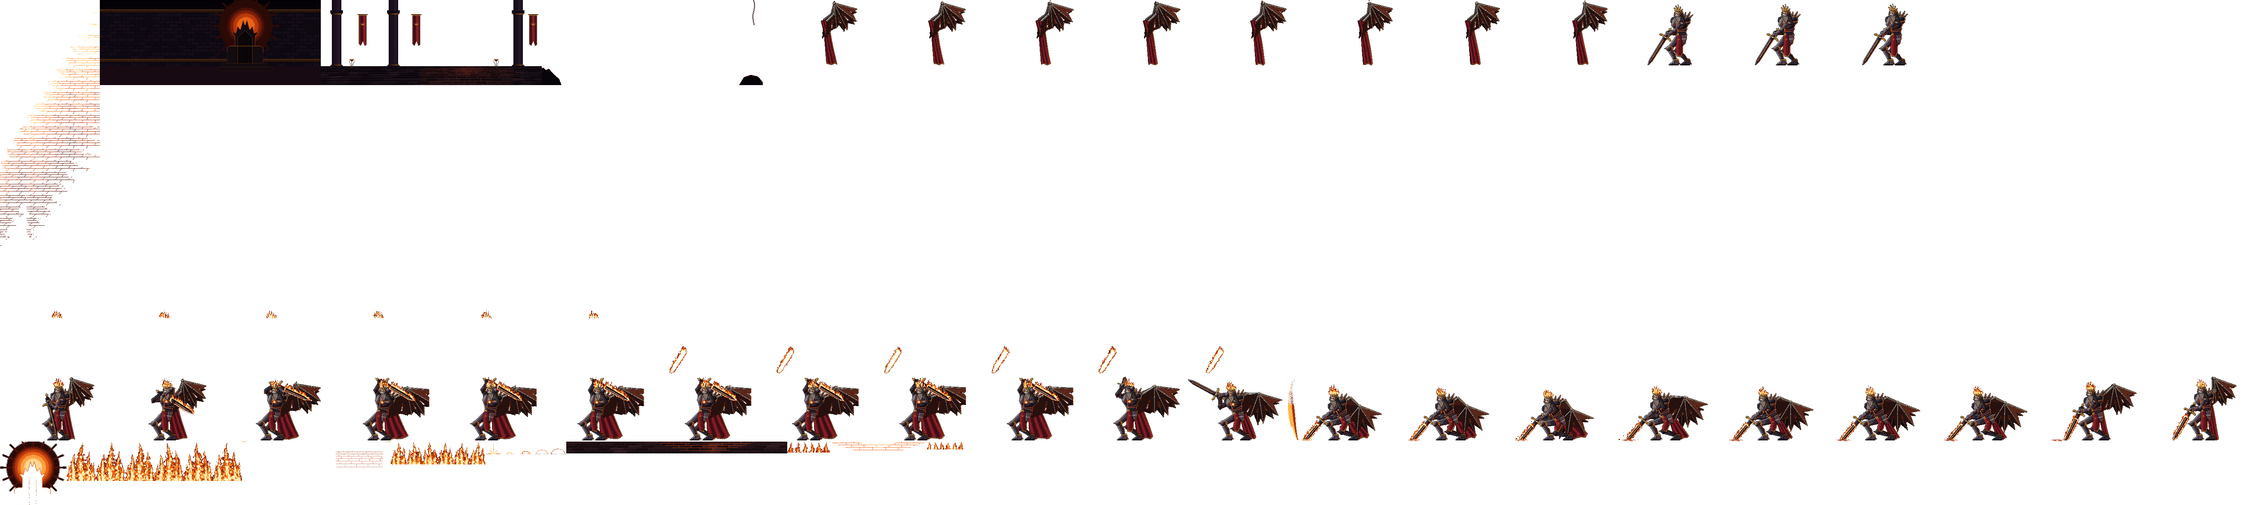
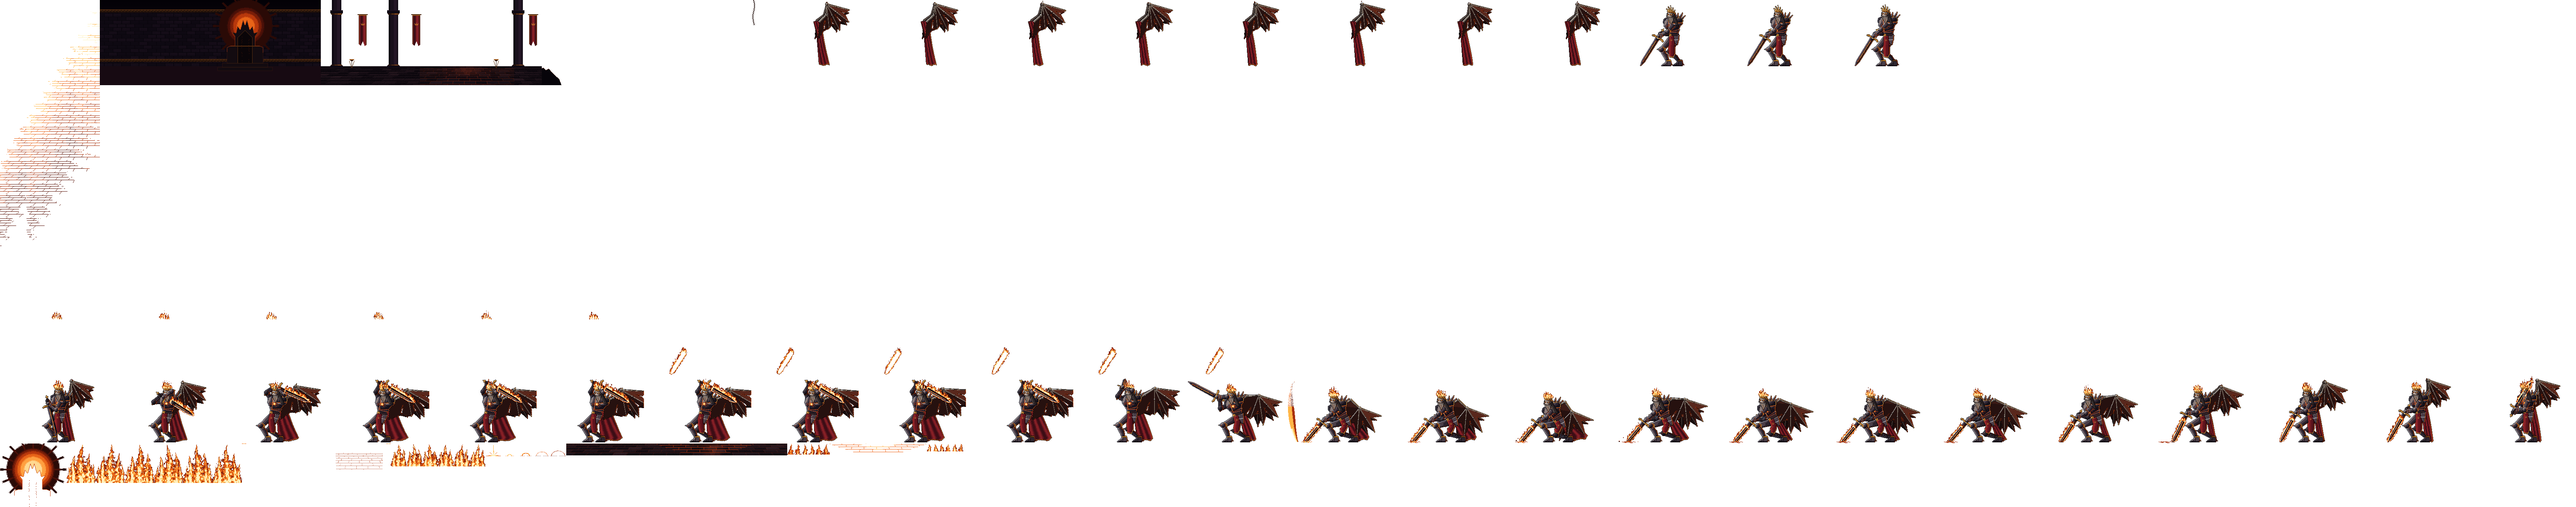
Website: Bosskino – Malgareth richtet sich über Zwischenbilder auf, Schattenriss rechts unten entfernt
Claude-Session: https://claude.ai/code/session_016qez4g2cYdi8Ag5boUatPM

diff --git a/site/bosskino.js b/site/bosskino.js
@@ -12,7 +12,7 @@
   const poster = stage?.querySelector('img');
   if (!root || !stage || !poster) return;
   // <bosskino.mjs> – von tools/bosskino.mjs geschrieben, nicht von Hand ändern
-  const META = {"szene":{"W":560,"H":216,"FY":190},"bosse":{"malgareth":{"name":"malgareth","glut":["#fff2c0","#ffb648","#c8420c"],"fokus":[300,290],"fig":{"x":201,"y":25,"w":272,"h":169},"ruhe":[{"r":"hinten","n":8,"ms":170},{"r":"koerper","seq":[0,0,0,1,1,2,2,2,1,1],"ms":210},{"r":"krone","n":6,"ms":100,"dy":[0,-1,-2],"von":"koerper"},{"r":"flamme","n":6,"ms":100}],"moment":{"f":[[0,130],[1,110],[2,110],[3,80],[4,80],[5,80],[6,80],[7,80],[8,80],[9,80],[10,60],[11,50],[12,60],[13,70],[14,90],[15,110],[16,140],[17,140],[18,140],[19,150],[20,200]],"hit":12},"stopp":80,"beben":[[0,3],[2,-2],[-1,1],[1,0]],"warn":{"x0":8,"x1":240,"y":187,"h":7,"dir":-1,"vor":760,"c":["#7a1a08","#c8420c","#ffb648"]},"ereignisse":[{"k":"bild","r":"welle","at":0,"x":0,"y":187,"w":253,"h":29,"n":27,"ms":60,"z":"boden"},{"k":"bild","r":"blitz","at":0,"x":226,"y":159,"w":41,"h":34,"n":5,"ms":60,"quer":true,"z":"vorn"},{"k":"wand","r":"wand","r2":"wand2","r3":"wand3","at":30,"x":242,"y":193,"dir":-1,"v":300,"weg":328,"w":74,"h":100,"w2":40,"h2":58,"w3":18,"h3":28,"n":6,"ms":70,"abst":8,"nach":680,"z":"vorn"},{"k":"funken","at":0,"x":246,"y":188,"n":34,"r":5,"vx":60,"vy":140,"g":300,"c":["#fff2c0","#ffb648","#e8641a","#a8300a"]},{"k":"funken","at":0,"x":246,"y":189,"n":20,"r":9,"vx":40,"vy":50,"g":80,"c":["#6a5040","#4e3a30","#3a2a24"]}],"schalen":[[70,131],[436,131]],"schale":{"w":16,"h":20,"n":6,"ms":90},"schaleNach":"mitte-glut","teilchen":"asche","dichte":2.2,"nach":"boden-glut","dauer":9.5,"start":2.4,"layers":[{"name":"fern","x":0,"y":0,"f":0.15,"r":[253,0,560,216]},{"name":"fern-glut","x":286,"y":0,"f":0.15,"glow":{"per":3.6,"lo":0.55,"steps":3},"r":[0,1121,169,161]},{"name":"mitte","x":0,"y":0,"f":0.45,"r":[813,0,560,216]},{"name":"mitte-glut","x":73,"y":149,"f":0.45,"glow":{"per":4.1,"lo":0.66,"steps":3},"r":[613,1121,377,66]},{"name":"boden","x":0,"y":186,"f":1,"r":[1435,1121,560,30]},{"name":"boden-glut","x":230,"y":187,"f":1,"glow":{"per":3.4,"lo":0.6,"steps":3},"r":[2103,1121,244,22]},{"name":"vorn","x":0,"y":0,"f":1.35,"r":[1373,0,560,216]}],"figur":{"fx":151,"fy":165,"r":{"hinten":[1933,0,2176,169],"koerper":[4109,0,816,169],"krone":[0,783,1632,169],"flamme":[1632,783,1632,169],"moment":[0,952,5712,169]}},"fxr":{"welle":[0,0,253,783],"wand":[169,1121,444,100],"wand2":[990,1121,240,58],"wand3":[1995,1121,108,28],"schale":[2347,1121,96,20],"blitz":[1230,1121,205,34]}},"faeulnis":{"glut":["#dcdca0","#a8b05a","#3e4a1e"],"fokus":[300,332],"teilchen":"sporen","dichte":3.4,"dauer":9.5,"start":2.2,"name":"faeulnis","fig":{"x":229,"y":23,"w":340,"h":168},"ruhe":[{"n":6,"ms":150,"r":"arm-h"},{"n":8,"ms":170,"r":"koerper"},{"n":6,"ms":150,"r":"arm-v"}],"moment":{"f":[[0,110],[1,100],[2,120],[3,120],[4,120],[5,120],[6,60],[7,60],[8,100],[9,110],[10,130],[11,110],[12,120],[13,140],[14,140],[15,140],[16,200],[17,160]],"hit":8},"nach":"boden-glut","ereignisse":[{"k":"bild","r":"welle","at":0,"x":0,"y":188,"w":257,"h":28,"n":36,"ms":60,"z":"boden"},{"k":"bild","r":"blitz","at":0,"x":238,"y":172,"w":25,"h":22,"n":4,"ms":60,"quer":true,"z":"vorn"},{"k":"funken","at":0,"x":250,"y":188,"n":22,"r":6,"vx":40,"vy":90,"g":200,"c":["#dcdca0","#a8b05a","#6e7a34","#3e4a1e"]},{"k":"funken","at":0,"x":250,"y":189,"n":16,"r":8,"vx":30,"vy":40,"g":80,"c":["#584c36","#3e3626","#28231a"]},{"k":"bild","r":"dorn","at":100,"x":204,"y":114,"w":40,"h":78,"n":9,"ms":80,"quer":true,"z":"vorn"},{"k":"funken","at":180,"x":224,"y":188,"n":8,"r":5,"vx":26,"vy":60,"g":220,"c":["#584c36","#3e3626","#464e2a"]},{"k":"bild","r":"dorn2","at":215,"x":179,"y":139,"w":30,"h":54,"n":9,"ms":80,"quer":true,"z":"vorn"},{"k":"funken","at":295,"x":194,"y":188,"n":8,"r":5,"vx":26,"vy":60,"g":220,"c":["#584c36","#3e3626","#464e2a"]},{"k":"bild","r":"wolke","at":355,"x":154,"y":128,"w":80,"h":64,"n":11,"ms":100,"quer":true,"z":"vorn"},{"k":"funken","at":275,"x":194,"y":184,"n":10,"r":6,"vx":18,"vy":30,"g":0,"c":["#dcdca0","#a8b05a","#6e7a34","#3e4a1e"]},{"k":"bild","r":"dorn","at":330,"x":144,"y":116,"w":40,"h":78,"n":9,"ms":80,"quer":true,"z":"vorn"},{"k":"funken","at":410,"x":164,"y":188,"n":8,"r":5,"vx":26,"vy":60,"g":220,"c":["#584c36","#3e3626","#464e2a"]},{"k":"bild","r":"dorn2","at":446,"x":119,"y":138,"w":30,"h":54,"n":9,"ms":80,"quer":true,"z":"vorn"},{"k":"funken","at":526,"x":134,"y":188,"n":8,"r":5,"vx":26,"vy":60,"g":220,"c":["#584c36","#3e3626","#464e2a"]},{"k":"bild","r":"wolke","at":586,"x":94,"y":128,"w":80,"h":64,"n":11,"ms":100,"quer":true,"z":"vorn"},{"k":"funken","at":506,"x":134,"y":184,"n":10,"r":6,"vx":18,"vy":30,"g":0,"c":["#dcdca0","#a8b05a","#6e7a34","#3e4a1e"]},{"k":"bild","r":"dorn","at":561,"x":84,"y":115,"w":40,"h":78,"n":9,"ms":80,"quer":true,"z":"vorn"},{"k":"funken","at":641,"x":104,"y":188,"n":8,"r":5,"vx":26,"vy":60,"g":220,"c":["#584c36","#3e3626","#464e2a"]},{"k":"bild","r":"dorn2","at":676,"x":59,"y":140,"w":30,"h":54,"n":9,"ms":80,"quer":true,"z":"vorn"},{"k":"funken","at":756,"x":74,"y":188,"n":8,"r":5,"vx":26,"vy":60,"g":220,"c":["#584c36","#3e3626","#464e2a"]},{"k":"bild","r":"wolke","at":816,"x":34,"y":128,"w":80,"h":64,"n":11,"ms":100,"quer":true,"z":"vorn"},{"k":"funken","at":736,"x":74,"y":184,"n":10,"r":6,"vx":18,"vy":30,"g":0,"c":["#dcdca0","#a8b05a","#6e7a34","#3e4a1e"]},{"k":"bild","r":"dorn","at":792,"x":24,"y":114,"w":40,"h":78,"n":9,"ms":80,"quer":true,"z":"vorn"},{"k":"funken","at":872,"x":44,"y":188,"n":8,"r":5,"vx":26,"vy":60,"g":220,"c":["#584c36","#3e3626","#464e2a"]}],"stopp":70,"beben":[[0,3],[2,-2],[-2,1],[1,-1],[-1,1],[1,0],[0,1]],"warn":{"x0":12,"x1":246,"y":187,"h":7,"dir":-1,"vor":650,"c":["#1e2410","#3e4a1e","#a8b05a"]},"layers":[{"name":"fern","x":0,"y":0,"f":0.15,"r":[257,0,560,216]},{"name":"fern-glut","x":0,"y":1,"f":0.15,"glow":{"per":3.4,"lo":0.45,"steps":3},"r":[0,1344,559,131]},{"name":"mitte","x":0,"y":97,"f":0.45,"r":[559,1344,560,119]},{"name":"mitte-glut","x":6,"y":134,"f":0.45,"glow":{"per":2.9,"lo":0.4,"steps":3},"r":[3950,1344,502,27]},{"name":"boden","x":0,"y":186,"f":1,"r":[3390,1344,560,30]},{"name":"boden-glut","x":46,"y":194,"f":1,"glow":{"per":2.6,"lo":0.4,"steps":3},"r":[4452,1344,435,17]},{"name":"vorn","x":0,"y":174,"f":1.35,"r":[2629,1344,556,42]}],"figur":{"r":{"arm-h":[817,0,2040,168],"koerper":[2857,0,2720,168],"arm-v":[0,1008,2040,168],"moment":[0,1176,6120,168]}},"fxr":{"blitz":[3185,1344,205,34],"dorn":[1119,1344,360,78],"dorn2":[2359,1344,270,54],"wolke":[1479,1344,880,64],"welle":[0,0,257,1008]}},"skalvyr":{"glut":["#ffffff","#9aeefc","#34b8e4"],"fokus":[292,298],"teilchen":"schnee","dichte":5,"dauer":9.5,"start":2.2,"beben":[[0,4],[3,-3],[-3,2],[2,-2],[-2,1],[1,-1],[0,1],[1,0]],"stopp":80,"name":"skalvyr","fig":{"x":167,"y":20,"w":390,"h":171},"ruhe":[{"n":12,"ms":150,"r":"koerper"}],"moment":{"f":[[0,150],[1,170],[2,100],[3,110],[4,110],[5,110],[6,110],[7,110],[8,150],[9,170],[10,190],[11,170]],"hit":8},"nach":"boden-glut","ereignisse":[{"k":"bild","r":"schatten","at":-770,"x":62,"y":176,"w":260,"h":26,"n":20,"ms":40,"quer":true,"z":"boden"},{"k":"bild","r":"reste","at":270,"x":62,"y":176,"w":260,"h":26,"n":11,"ms":150,"quer":true,"z":"boden"},{"k":"bild","r":"welle","at":0,"x":0,"y":187,"w":523,"h":29,"n":41,"ms":60,"z":"boden"},{"k":"zapfen","r":"zapfen-s","r2":"steckt-s","at":-20,"x":174,"y":187,"vor":640,"w":18,"h":62,"n":5,"ms":16,"sw":54,"sh":68,"mr":1,"z":"vorn"},{"k":"zapfen","r":"zapfen-m","r2":"steckt-m","at":-70,"x":226,"y":188,"vor":640,"w":24,"h":82,"n":5,"ms":26,"sw":60,"sh":88,"mr":1,"z":"vorn"},{"k":"zapfen","r":"zapfen-m","r2":"steckt-m","at":-110,"x":160,"y":190,"vor":640,"w":24,"h":82,"n":5,"ms":34,"sw":60,"sh":88,"mr":1,"z":"vorn"},{"k":"zapfen","r":"zapfen-s","r2":"steckt-s","at":-130,"x":252,"y":194,"vor":640,"w":18,"h":62,"n":5,"ms":38,"sw":54,"sh":68,"mr":1,"z":"vorn"},{"k":"zapfen","r":"zapfen-l","r2":"steckt-l","at":0,"x":190,"y":195,"vor":640,"w":30,"h":104,"n":5,"ms":12,"sw":66,"sh":110,"mr":1,"z":"vorn"},{"k":"zapfen","r":"zapfen-s","r2":"steckt-s","at":-40,"x":138,"y":196,"vor":640,"w":18,"h":62,"n":5,"ms":20,"sw":54,"sh":68,"mr":1,"z":"vorn"},{"k":"zapfen","r":"zapfen-s","r2":"steckt-s","at":-90,"x":208,"y":197,"vor":640,"w":18,"h":62,"n":5,"ms":30,"sw":54,"sh":68,"mr":1,"z":"vorn"},{"k":"bild","r":"kranz","at":0,"x":62,"y":52,"w":260,"h":150,"n":12,"ms":60,"quer":true,"z":"vorn"},{"k":"funken","at":-520,"x":200,"y":10,"n":10,"r":16,"vx":6,"vy":-30,"g":140,"c":["#ffffff","#9aeefc","#34b8e4","#1670a0"]},{"k":"funken","at":-460,"x":150,"y":10,"n":10,"r":16,"vx":6,"vy":-30,"g":140,"c":["#ffffff","#9aeefc","#34b8e4","#1670a0"]},{"k":"funken","at":-400,"x":250,"y":10,"n":10,"r":16,"vx":6,"vy":-30,"g":140,"c":["#ffffff","#9aeefc","#34b8e4","#1670a0"]},{"k":"funken","at":-340,"x":120,"y":10,"n":10,"r":16,"vx":6,"vy":-30,"g":140,"c":["#ffffff","#9aeefc","#34b8e4","#1670a0"]},{"k":"funken","at":-280,"x":228,"y":10,"n":10,"r":16,"vx":6,"vy":-30,"g":140,"c":["#ffffff","#9aeefc","#34b8e4","#1670a0"]},{"k":"funken","at":-220,"x":176,"y":10,"n":10,"r":16,"vx":6,"vy":-30,"g":140,"c":["#ffffff","#9aeefc","#34b8e4","#1670a0"]}],"warn":null,"layers":[{"name":"fern","x":0,"y":0,"f":0.15,"r":[523,0,560,216]},{"name":"fern-glut","x":264,"y":7,"f":0.15,"glow":{"per":3.8,"lo":0.55,"steps":3},"r":[2203,0,110,171]},{"name":"mitte","x":0,"y":0,"f":0.45,"r":[1083,0,560,216]},{"name":"mitte-glut","x":6,"y":0,"f":0.45,"glow":{"per":3.1,"lo":0.5,"steps":3},"r":[2313,0,525,171]},{"name":"boden","x":0,"y":186,"f":1,"r":[4092,1531,560,30]},{"name":"boden-glut","x":341,"y":192,"f":1,"glow":{"per":3.3,"lo":0.4,"steps":3},"r":[2860,1707,102,10]},{"name":"vorn","x":0,"y":0,"f":1.35,"r":[1643,0,560,216]}],"figur":{"r":{"koerper":[0,1189,4680,171],"moment":[0,1360,4680,171]}},"fxr":{"zapfen-l":[3450,1531,30,104],"steckt-l":[3120,1531,330,110],"zapfen-m":[3780,1531,24,82],"steckt-m":[3480,1531,300,88],"zapfen-s":[4074,1531,18,62],"steckt-s":[3804,1531,270,68],"kranz":[0,1531,3120,150],"schatten":[0,1681,5200,26],"reste":[0,1707,2860,26],"welle":[0,0,523,1189]}}}};
+  const META = {"szene":{"W":560,"H":216,"FY":190},"bosse":{"malgareth":{"name":"malgareth","glut":["#fff2c0","#ffb648","#c8420c"],"fokus":[300,290],"fig":{"x":201,"y":23,"w":272,"h":171},"ruhe":[{"r":"hinten","n":8,"ms":170},{"r":"koerper","seq":[0,0,0,1,1,2,2,2,1,1],"ms":210},{"r":"krone","n":6,"ms":100,"dy":[0,-1,-2],"von":"koerper"},{"r":"flamme","n":6,"ms":100}],"moment":{"f":[[0,130],[1,110],[2,110],[3,80],[4,80],[5,80],[6,80],[7,80],[8,80],[9,80],[10,60],[11,50],[12,60],[13,70],[14,90],[15,110],[16,140],[17,140],[18,140],[19,110],[20,130],[21,110],[22,130],[23,120]],"hit":12},"stopp":80,"beben":[[0,3],[2,-2],[-1,1],[1,0]],"warn":{"x0":8,"x1":240,"y":187,"h":7,"dir":-1,"vor":760,"c":["#7a1a08","#c8420c","#ffb648"]},"ereignisse":[{"k":"bild","r":"welle","at":0,"x":0,"y":187,"w":253,"h":29,"n":27,"ms":60,"z":"boden"},{"k":"bild","r":"blitz","at":0,"x":226,"y":159,"w":41,"h":34,"n":5,"ms":60,"quer":true,"z":"vorn"},{"k":"wand","r":"wand","r2":"wand2","r3":"wand3","at":30,"x":242,"y":193,"dir":-1,"v":300,"weg":328,"w":74,"h":100,"w2":40,"h2":58,"w3":18,"h3":28,"n":6,"ms":70,"abst":8,"nach":680,"z":"vorn"},{"k":"funken","at":0,"x":246,"y":188,"n":34,"r":5,"vx":60,"vy":140,"g":300,"c":["#fff2c0","#ffb648","#e8641a","#a8300a"]},{"k":"funken","at":0,"x":246,"y":189,"n":20,"r":9,"vx":40,"vy":50,"g":80,"c":["#6a5040","#4e3a30","#3a2a24"]}],"schalen":[[70,131],[436,131]],"schale":{"w":16,"h":20,"n":6,"ms":90},"schaleNach":"mitte-glut","teilchen":"asche","dichte":2.2,"nach":"boden-glut","dauer":9.5,"start":2.4,"layers":[{"name":"fern","x":0,"y":0,"f":0.15,"r":[253,0,560,216]},{"name":"fern-glut","x":286,"y":0,"f":0.15,"glow":{"per":3.6,"lo":0.55,"steps":3},"r":[0,1125,169,161]},{"name":"mitte","x":0,"y":0,"f":0.45,"r":[813,0,560,216]},{"name":"mitte-glut","x":73,"y":149,"f":0.45,"glow":{"per":4.1,"lo":0.66,"steps":3},"r":[613,1125,377,66]},{"name":"boden","x":0,"y":186,"f":1,"r":[1435,1125,560,30]},{"name":"boden-glut","x":230,"y":187,"f":1,"glow":{"per":3.4,"lo":0.6,"steps":3},"r":[2103,1125,244,22]},{"name":"vorn","x":0,"y":0,"f":1.35,"r":[1373,0,541,216]}],"figur":{"fx":151,"fy":167,"r":{"hinten":[1914,0,2176,171],"koerper":[4090,0,816,171],"krone":[0,783,1632,171],"flamme":[1632,783,1632,171],"moment":[0,954,6528,171]}},"fxr":{"welle":[0,0,253,783],"wand":[169,1125,444,100],"wand2":[990,1125,240,58],"wand3":[1995,1125,108,28],"schale":[2347,1125,96,20],"blitz":[1230,1125,205,34]}},"faeulnis":{"glut":["#dcdca0","#a8b05a","#3e4a1e"],"fokus":[300,332],"teilchen":"sporen","dichte":3.4,"dauer":9.5,"start":2.2,"name":"faeulnis","fig":{"x":229,"y":23,"w":340,"h":168},"ruhe":[{"n":6,"ms":150,"r":"arm-h"},{"n":8,"ms":170,"r":"koerper"},{"n":6,"ms":150,"r":"arm-v"}],"moment":{"f":[[0,110],[1,100],[2,120],[3,120],[4,120],[5,120],[6,60],[7,60],[8,100],[9,110],[10,130],[11,110],[12,120],[13,140],[14,140],[15,140],[16,200],[17,160]],"hit":8},"nach":"boden-glut","ereignisse":[{"k":"bild","r":"welle","at":0,"x":0,"y":188,"w":257,"h":28,"n":36,"ms":60,"z":"boden"},{"k":"bild","r":"blitz","at":0,"x":238,"y":172,"w":25,"h":22,"n":4,"ms":60,"quer":true,"z":"vorn"},{"k":"funken","at":0,"x":250,"y":188,"n":22,"r":6,"vx":40,"vy":90,"g":200,"c":["#dcdca0","#a8b05a","#6e7a34","#3e4a1e"]},{"k":"funken","at":0,"x":250,"y":189,"n":16,"r":8,"vx":30,"vy":40,"g":80,"c":["#584c36","#3e3626","#28231a"]},{"k":"bild","r":"dorn","at":100,"x":204,"y":114,"w":40,"h":78,"n":9,"ms":80,"quer":true,"z":"vorn"},{"k":"funken","at":180,"x":224,"y":188,"n":8,"r":5,"vx":26,"vy":60,"g":220,"c":["#584c36","#3e3626","#464e2a"]},{"k":"bild","r":"dorn2","at":215,"x":179,"y":139,"w":30,"h":54,"n":9,"ms":80,"quer":true,"z":"vorn"},{"k":"funken","at":295,"x":194,"y":188,"n":8,"r":5,"vx":26,"vy":60,"g":220,"c":["#584c36","#3e3626","#464e2a"]},{"k":"bild","r":"wolke","at":355,"x":154,"y":128,"w":80,"h":64,"n":11,"ms":100,"quer":true,"z":"vorn"},{"k":"funken","at":275,"x":194,"y":184,"n":10,"r":6,"vx":18,"vy":30,"g":0,"c":["#dcdca0","#a8b05a","#6e7a34","#3e4a1e"]},{"k":"bild","r":"dorn","at":330,"x":144,"y":116,"w":40,"h":78,"n":9,"ms":80,"quer":true,"z":"vorn"},{"k":"funken","at":410,"x":164,"y":188,"n":8,"r":5,"vx":26,"vy":60,"g":220,"c":["#584c36","#3e3626","#464e2a"]},{"k":"bild","r":"dorn2","at":446,"x":119,"y":138,"w":30,"h":54,"n":9,"ms":80,"quer":true,"z":"vorn"},{"k":"funken","at":526,"x":134,"y":188,"n":8,"r":5,"vx":26,"vy":60,"g":220,"c":["#584c36","#3e3626","#464e2a"]},{"k":"bild","r":"wolke","at":586,"x":94,"y":128,"w":80,"h":64,"n":11,"ms":100,"quer":true,"z":"vorn"},{"k":"funken","at":506,"x":134,"y":184,"n":10,"r":6,"vx":18,"vy":30,"g":0,"c":["#dcdca0","#a8b05a","#6e7a34","#3e4a1e"]},{"k":"bild","r":"dorn","at":561,"x":84,"y":115,"w":40,"h":78,"n":9,"ms":80,"quer":true,"z":"vorn"},{"k":"funken","at":641,"x":104,"y":188,"n":8,"r":5,"vx":26,"vy":60,"g":220,"c":["#584c36","#3e3626","#464e2a"]},{"k":"bild","r":"dorn2","at":676,"x":59,"y":140,"w":30,"h":54,"n":9,"ms":80,"quer":true,"z":"vorn"},{"k":"funken","at":756,"x":74,"y":188,"n":8,"r":5,"vx":26,"vy":60,"g":220,"c":["#584c36","#3e3626","#464e2a"]},{"k":"bild","r":"wolke","at":816,"x":34,"y":128,"w":80,"h":64,"n":11,"ms":100,"quer":true,"z":"vorn"},{"k":"funken","at":736,"x":74,"y":184,"n":10,"r":6,"vx":18,"vy":30,"g":0,"c":["#dcdca0","#a8b05a","#6e7a34","#3e4a1e"]},{"k":"bild","r":"dorn","at":792,"x":24,"y":114,"w":40,"h":78,"n":9,"ms":80,"quer":true,"z":"vorn"},{"k":"funken","at":872,"x":44,"y":188,"n":8,"r":5,"vx":26,"vy":60,"g":220,"c":["#584c36","#3e3626","#464e2a"]}],"stopp":70,"beben":[[0,3],[2,-2],[-2,1],[1,-1],[-1,1],[1,0],[0,1]],"warn":{"x0":12,"x1":246,"y":187,"h":7,"dir":-1,"vor":650,"c":["#1e2410","#3e4a1e","#a8b05a"]},"layers":[{"name":"fern","x":0,"y":0,"f":0.15,"r":[257,0,560,216]},{"name":"fern-glut","x":0,"y":1,"f":0.15,"glow":{"per":3.4,"lo":0.45,"steps":3},"r":[0,1344,559,131]},{"name":"mitte","x":0,"y":97,"f":0.45,"r":[559,1344,560,119]},{"name":"mitte-glut","x":6,"y":134,"f":0.45,"glow":{"per":2.9,"lo":0.4,"steps":3},"r":[3950,1344,502,27]},{"name":"boden","x":0,"y":186,"f":1,"r":[3390,1344,560,30]},{"name":"boden-glut","x":46,"y":194,"f":1,"glow":{"per":2.6,"lo":0.4,"steps":3},"r":[4452,1344,435,17]},{"name":"vorn","x":0,"y":174,"f":1.35,"r":[2629,1344,556,42]}],"figur":{"r":{"arm-h":[817,0,2040,168],"koerper":[2857,0,2720,168],"arm-v":[0,1008,2040,168],"moment":[0,1176,6120,168]}},"fxr":{"blitz":[3185,1344,205,34],"dorn":[1119,1344,360,78],"dorn2":[2359,1344,270,54],"wolke":[1479,1344,880,64],"welle":[0,0,257,1008]}},"skalvyr":{"glut":["#ffffff","#9aeefc","#34b8e4"],"fokus":[292,298],"teilchen":"schnee","dichte":5,"dauer":9.5,"start":2.2,"beben":[[0,4],[3,-3],[-3,2],[2,-2],[-2,1],[1,-1],[0,1],[1,0]],"stopp":80,"name":"skalvyr","fig":{"x":167,"y":20,"w":390,"h":171},"ruhe":[{"n":12,"ms":150,"r":"koerper"}],"moment":{"f":[[0,150],[1,170],[2,100],[3,110],[4,110],[5,110],[6,110],[7,110],[8,150],[9,170],[10,190],[11,170]],"hit":8},"nach":"boden-glut","ereignisse":[{"k":"bild","r":"schatten","at":-770,"x":62,"y":176,"w":260,"h":26,"n":20,"ms":40,"quer":true,"z":"boden"},{"k":"bild","r":"reste","at":270,"x":62,"y":176,"w":260,"h":26,"n":11,"ms":150,"quer":true,"z":"boden"},{"k":"bild","r":"welle","at":0,"x":0,"y":187,"w":523,"h":29,"n":41,"ms":60,"z":"boden"},{"k":"zapfen","r":"zapfen-s","r2":"steckt-s","at":-20,"x":174,"y":187,"vor":640,"w":18,"h":62,"n":5,"ms":16,"sw":54,"sh":68,"mr":1,"z":"vorn"},{"k":"zapfen","r":"zapfen-m","r2":"steckt-m","at":-70,"x":226,"y":188,"vor":640,"w":24,"h":82,"n":5,"ms":26,"sw":60,"sh":88,"mr":1,"z":"vorn"},{"k":"zapfen","r":"zapfen-m","r2":"steckt-m","at":-110,"x":160,"y":190,"vor":640,"w":24,"h":82,"n":5,"ms":34,"sw":60,"sh":88,"mr":1,"z":"vorn"},{"k":"zapfen","r":"zapfen-s","r2":"steckt-s","at":-130,"x":252,"y":194,"vor":640,"w":18,"h":62,"n":5,"ms":38,"sw":54,"sh":68,"mr":1,"z":"vorn"},{"k":"zapfen","r":"zapfen-l","r2":"steckt-l","at":0,"x":190,"y":195,"vor":640,"w":30,"h":104,"n":5,"ms":12,"sw":66,"sh":110,"mr":1,"z":"vorn"},{"k":"zapfen","r":"zapfen-s","r2":"steckt-s","at":-40,"x":138,"y":196,"vor":640,"w":18,"h":62,"n":5,"ms":20,"sw":54,"sh":68,"mr":1,"z":"vorn"},{"k":"zapfen","r":"zapfen-s","r2":"steckt-s","at":-90,"x":208,"y":197,"vor":640,"w":18,"h":62,"n":5,"ms":30,"sw":54,"sh":68,"mr":1,"z":"vorn"},{"k":"bild","r":"kranz","at":0,"x":62,"y":52,"w":260,"h":150,"n":12,"ms":60,"quer":true,"z":"vorn"},{"k":"funken","at":-520,"x":200,"y":10,"n":10,"r":16,"vx":6,"vy":-30,"g":140,"c":["#ffffff","#9aeefc","#34b8e4","#1670a0"]},{"k":"funken","at":-460,"x":150,"y":10,"n":10,"r":16,"vx":6,"vy":-30,"g":140,"c":["#ffffff","#9aeefc","#34b8e4","#1670a0"]},{"k":"funken","at":-400,"x":250,"y":10,"n":10,"r":16,"vx":6,"vy":-30,"g":140,"c":["#ffffff","#9aeefc","#34b8e4","#1670a0"]},{"k":"funken","at":-340,"x":120,"y":10,"n":10,"r":16,"vx":6,"vy":-30,"g":140,"c":["#ffffff","#9aeefc","#34b8e4","#1670a0"]},{"k":"funken","at":-280,"x":228,"y":10,"n":10,"r":16,"vx":6,"vy":-30,"g":140,"c":["#ffffff","#9aeefc","#34b8e4","#1670a0"]},{"k":"funken","at":-220,"x":176,"y":10,"n":10,"r":16,"vx":6,"vy":-30,"g":140,"c":["#ffffff","#9aeefc","#34b8e4","#1670a0"]}],"warn":null,"layers":[{"name":"fern","x":0,"y":0,"f":0.15,"r":[523,0,560,216]},{"name":"fern-glut","x":264,"y":7,"f":0.15,"glow":{"per":3.8,"lo":0.55,"steps":3},"r":[2203,0,110,171]},{"name":"mitte","x":0,"y":0,"f":0.45,"r":[1083,0,560,216]},{"name":"mitte-glut","x":6,"y":0,"f":0.45,"glow":{"per":3.1,"lo":0.5,"steps":3},"r":[2313,0,525,171]},{"name":"boden","x":0,"y":186,"f":1,"r":[4092,1531,560,30]},{"name":"boden-glut","x":341,"y":192,"f":1,"glow":{"per":3.3,"lo":0.4,"steps":3},"r":[2860,1707,102,10]},{"name":"vorn","x":0,"y":0,"f":1.35,"r":[1643,0,560,216]}],"figur":{"r":{"koerper":[0,1189,4680,171],"moment":[0,1360,4680,171]}},"fxr":{"zapfen-l":[3450,1531,30,104],"steckt-l":[3120,1531,330,110],"zapfen-m":[3780,1531,24,82],"steckt-m":[3480,1531,300,88],"zapfen-s":[4074,1531,18,62],"steckt-s":[3804,1531,270,68],"kranz":[0,1531,3120,150],"schatten":[0,1681,5200,26],"reste":[0,1707,2860,26],"welle":[0,0,523,1189]}}}};
   // </bosskino.mjs>
   if (!META) return;
   const S = META.szene;

diff --git a/site/tools/bosskino_malgareth.py b/site/tools/bosskino_malgareth.py
@@ -711,10 +711,29 @@ POSEN = {
     'auf': dict(grip=(38, 80), ang=-420, crouch=3, lean=6, wo=0.05, fN=19, hipx=2),
 }
 
+def mischpose(a, b, k):
+    """Zwischenpose: Zahlenwerte von a nach b (Anteil k), Tupel je Achse, Rest von b."""
+    q = dict(b)
+    for key in set(a) | set(b):
+        va, vb = a.get(key, DEF.get(key, 0)), b.get(key, DEF.get(key, 0))
+        if isinstance(vb, tuple): q[key] = tuple(round(x + (y - x) * k, 1) for x, y in zip(va, vb))
+        elif isinstance(vb, (int, float)) and isinstance(va, (int, float)):
+            q[key] = va + (vb - va) * k
+            if isinstance(va, int) and isinstance(vb, int): q[key] = int(round(q[key]))
+    return q
+
+
+# Zwischenbilder beim Aufrichten nach dem Einschlag (aus der Hocke über halbe Stufen in den Stand)
+POSEN['zieh0'] = mischpose(POSEN['nach3'], POSEN['zieh'], 0.5)
+POSEN['auf0'] = mischpose(POSEN['zieh'], POSEN['auf'], 0.5)
+POSEN['auf1'] = mischpose(POSEN['auf'], POSEN['ruhe'], 0.5)
+
+
 # (Pose, ms, Art): 'gross' = Klingenflammen groß, 'bogen' = Schwungsichel von der vorigen Pose, 'hit' = Einschlag
 MOMENT = [('zug', 130, None), ('h1', 110, None), ('h2', 110, None), ('aus', 560, 'gross'), ('hieb1', 60, 'bogen'),
           ('hieb2', 50, 'bogen'), ('ein', 60, 'hit'), ('ein', 70, 'halt'), ('nach1', 90, 'nach'), ('nach2', 110, 'nach'), ('nach3', 420, 'nach'),
-          ('zieh', 150, None), ('auf', 200, None)]
+          ('zieh0', 110, None), ('zieh', 130, None), ('auf0', 110, None),
+          ('auf', 130, None), ('auf1', 120, None)]
 
 
 # ------------------------------------------------------------------------------------------- Saal des Aschethrons
@@ -897,10 +916,9 @@ def scene():
             BG[y, x] = 0
     L['boden'] = dict(img=Bd, f=1.0)
     L['boden-glut'] = dict(img=BG, f=1.0, glow=dict(per=3.4, lo=0.6, steps=3))
-    # ---- Vordergrund (Tiefe 1,35): Säulentrümmer links, Kette rechts oben, Schattenrisse mit Glutkante
+    # ---- Vordergrund (Tiefe 1,35): Säulentrümmer links, Kette rechts oben, Schattenriss mit Glutkante
     V = Buf()
     vm = V.poly([(-10, SH), (-10, 176), (4, 172), (10, 178), (18, 174), (26, 184), (34, 192), (44, 200), (50, SH)])
-    vm |= V.poly([(500, SH), (512, 196), (530, 190), (548, 194), (566, SH)])
     V.a[vm] = (*hexc('#07040a'), 255)
     e = outline_mask(~vm) & vm
     top_e = e & ~np.roll(vm, 1, axis=0)
